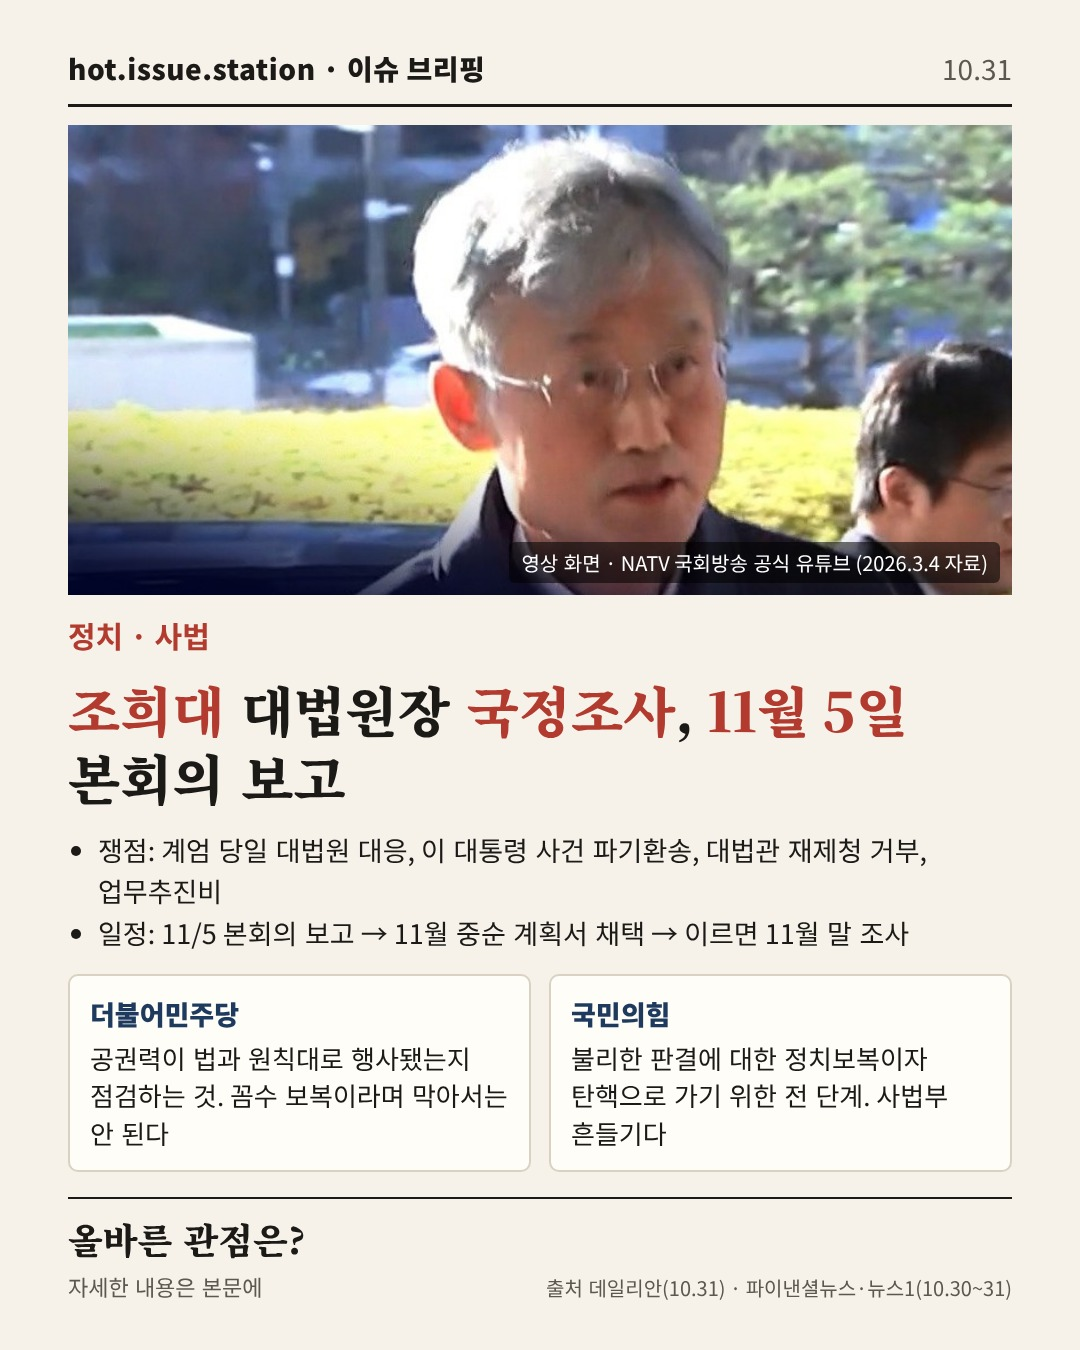
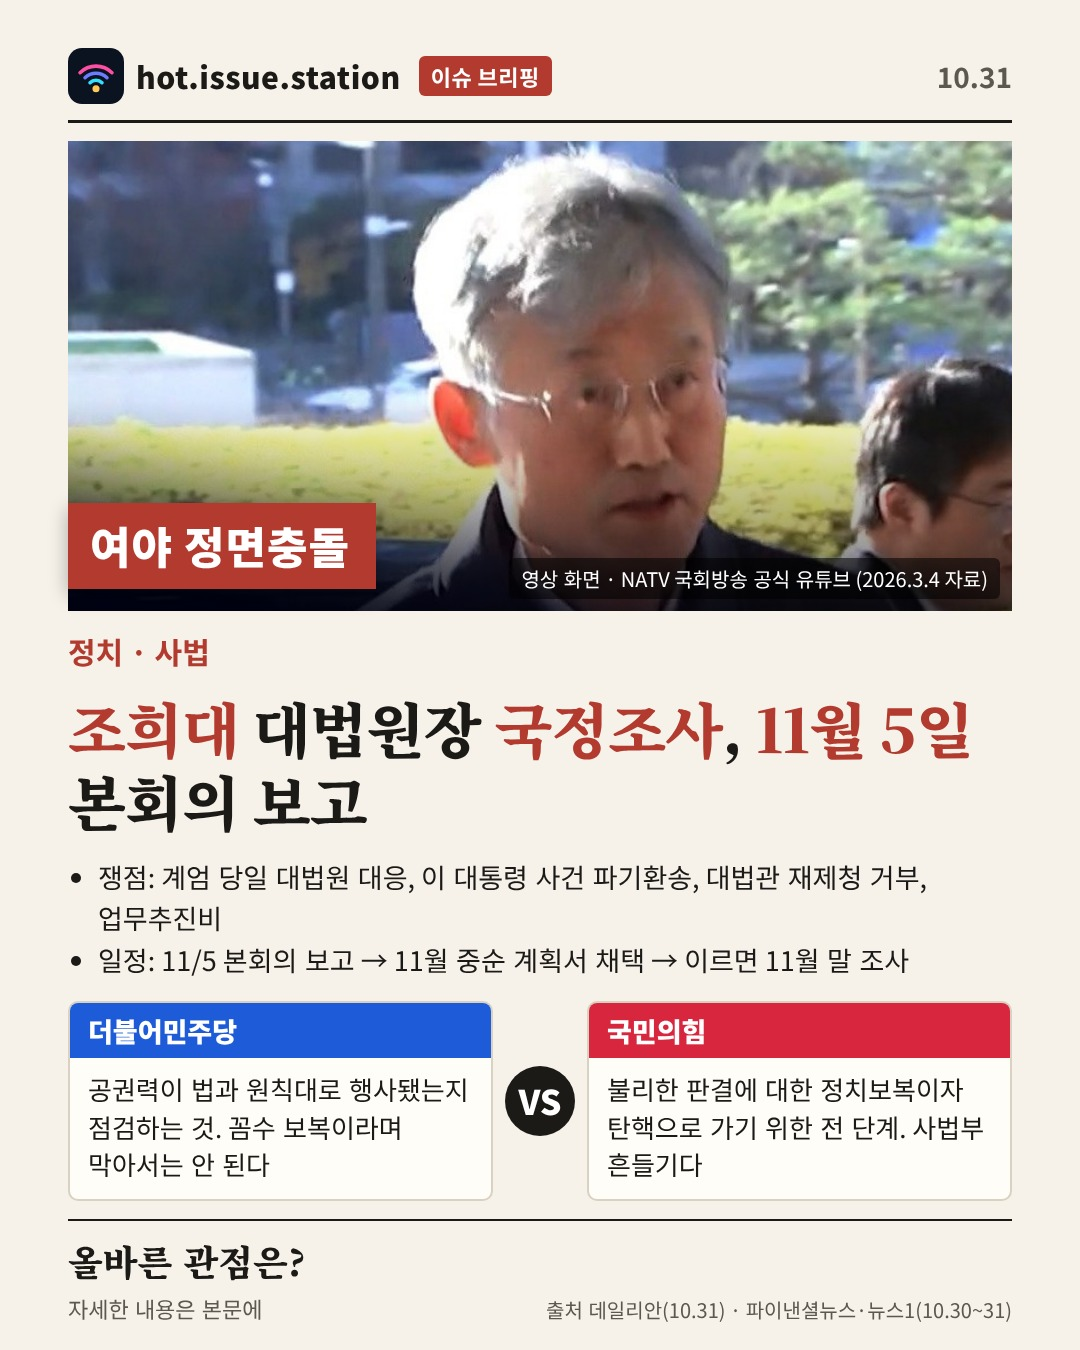
이슈 브리핑: 로고, 빨간 띠, 민주당 VS 국민의힘 대결 구도
Claude-Session: https://claude.ai/code/session_017sdLagfdwDnGFusHKe7jDQ

diff --git a/scripts/make_brief.py b/scripts/make_brief.py
@@ -5,13 +5,15 @@
 
 python scripts/make_brief.py rounds/<ID>.json --out posts/<ID>
 round JSON:
-{ "date":"2026-10-31", "category":"정치 · 사법", "headline":"…(*강조할 말*)", "deck":"한 줄 설명",
+{ "date":"2026-10-31", "category":"정치 · 사법", "flash":"여야 정면충돌"(사진 위 빨간 띠, 기사 표현 범위에서), "headline":"…(*강조할 말*)", "deck":"한 줄 설명",
   "photo":"assets/thumbs/x.jpg", "photoCrop":[x0,y0,x1,y1](선택, 원본 픽셀), "photoLabel":"영상 화면 · ○○ 공식 유튜브",
   "points":["쟁점 1","쟁점 2","쟁점 3"],
   "sides":[{"name":"더불어민주당","say":"…"},{"name":"국민의힘","say":"…"}],   # 같은 분량
   "question":"올바른 관점은?", "sources":[{"outlet","date"}] }
 """
 import argparse, base64, html, io, json, pathlib, sys
+sys.path.insert(0, str(pathlib.Path(__file__).resolve().parent))
+from make_post import LOGO  # 우리 로고(와이파이 무지개)
 
 E = html.escape
 PAPER, INK, SUB, LINE, ACC, NAVY = "#F6F2EA", "#1B1A17", "#5C5850", "#D9D2C3", "#B23A2E", "#1F3A5F"
@@ -35,28 +37,34 @@ def photo_uri(path, crop):
 def page(r):
     m, d = r["date"][5:7], r["date"][8:10]
     pts = "".join(f'<li>{E(p)}</li>' for p in r["points"])
-    sides = "".join(f'''<div class="side"><div class="nm">{E(s["name"])}</div><div class="say">{E(s["say"])}</div></div>''' for s in r["sides"])
+    cols = ["#1E5BD8", "#D7263D"]
+    sv = [f'''<div class="side"><div class="nm" style="background:{cols[k % 2]}">{E(s["name"])}</div><div class="say">{E(s["say"])}</div></div>''' for k, s in enumerate(r["sides"])]
+    sides = sv[0] + '<div class="vs">VS</div>' + sv[1] if len(sv) == 2 else "".join(sv)
     src = " · ".join(f'{E(s["outlet"])}({E(s["date"])})' for s in r["sources"])
     return f"""<!doctype html><html><head><meta charset="utf-8"><style>
 body{{margin:0;word-break:keep-all}}
 .c{{width:1080px;height:1350px;background:{PAPER};color:{INK};font-family:'Noto Sans CJK KR',sans-serif;box-sizing:border-box;padding:48px 68px;display:flex;flex-direction:column;gap:18px}}
 .top{{display:flex;justify-content:space-between;align-items:center;border-bottom:3px solid {INK};padding-bottom:16px;font-size:28px}}
-.brand{{font-weight:900;letter-spacing:.5px}} .date{{color:{SUB}}}
+.brand{{font-weight:900;letter-spacing:.5px;display:flex;align-items:center;gap:12px;font-size:30px}} .lg{{background:#0B1220;border-radius:14px;padding:4px}} .lg svg{{width:48px;height:48px}}
+.tag{{margin-left:6px;background:{ACC};color:#fff;font-size:22px;font-weight:700;padding:4px 12px;border-radius:6px}} .date{{color:{SUB};font-weight:700}}
+.shade{{position:absolute;inset:0;background:linear-gradient(180deg,rgba(0,0,0,0) 55%,rgba(0,0,0,.55))}}
+.flash{{position:absolute;left:0;bottom:22px;background:{ACC};color:#fff;font-weight:900;font-size:44px;padding:10px 26px 12px 22px;letter-spacing:1px;box-shadow:0 6px 18px rgba(0,0,0,.3)}}
 .ph{{position:relative;flex-shrink:0;height:470px;background:#000 url({photo_uri(r["photo"], r.get("photoCrop"))}) {r.get("photoPos","50% 35%")}/cover no-repeat}}
 .ph .lb{{position:absolute;right:12px;bottom:12px;background:rgba(0,0,0,.55);color:#fff;font-size:20px;padding:6px 12px;border-radius:6px}}
 .cat{{color:{ACC};font-weight:700;font-size:30px}}
-h1{{margin:0;font-family:'Noto Serif CJK KR','Noto Serif CJK JP',serif;font-weight:900;font-size:54px;line-height:1.25}}
+h1{{margin:0;font-family:'Noto Serif CJK KR','Noto Serif CJK JP',serif;font-weight:900;font-size:60px;line-height:1.22;letter-spacing:-1px}}
 .deck{{font-size:31px;line-height:1.5;color:{SUB}}}
 ul{{margin:0;padding-left:30px;font-size:27px;line-height:1.5}} li{{margin:2px 0}}
-.sides{{display:grid;grid-template-columns:1fr 1fr;gap:18px}}
-.side{{border:2px solid {LINE};background:#FFFDF8;padding:18px 20px;border-radius:10px}}
-.nm{{font-weight:900;font-size:27px;color:{NAVY};margin-bottom:6px}} .say{{font-size:26px;line-height:1.45}}
+.sides{{display:grid;grid-template-columns:1fr auto 1fr;gap:12px;align-items:stretch}}
+.vs{{align-self:center;font-family:'Noto Sans CJK KR';font-weight:900;font-size:34px;color:#fff;background:{INK};border-radius:50%;width:70px;height:70px;display:flex;align-items:center;justify-content:center}}
+.side{{border:2px solid {LINE};background:#FFFDF8;border-radius:10px;overflow:hidden}}
+.nm{{font-weight:900;font-size:27px;color:#fff;padding:8px 18px}} .say{{font-size:26px;line-height:1.45;padding:12px 18px 16px}}
 .bot{{margin-top:auto;display:flex;justify-content:space-between;align-items:flex-end;border-top:2px solid {INK};padding-top:14px}}
 .q{{font-family:'Noto Serif CJK KR','Noto Serif CJK JP',serif;font-weight:900;font-size:36px}}
 .src{{font-size:20px;color:{SUB};text-align:right;max-width:560px}}
 </style></head><body><div class="c">
-<div class="top"><div class="brand">hot.issue.station · 이슈 브리핑</div><div class="date">{m}.{d}</div></div>
-<div class="ph"><div class="lb">{E(r["photoLabel"])}</div></div>
+<div class="top"><div class="brand"><div class="lg">{LOGO}</div>hot.issue.station<span class="tag">이슈 브리핑</span></div><div class="date">{m}.{d}</div></div>
+<div class="ph"><div class="shade"></div>{f'<div class="flash">{E(r["flash"])}</div>' if r.get("flash") else ""}<div class="lb">{E(r["photoLabel"])}</div></div>
 <div class="cat">{E(r["category"])}</div>
 <h1>{hl(r["headline"])}</h1>
 {f'<div class="deck">{E(r["deck"])}</div>' if r.get("deck") else ""}
